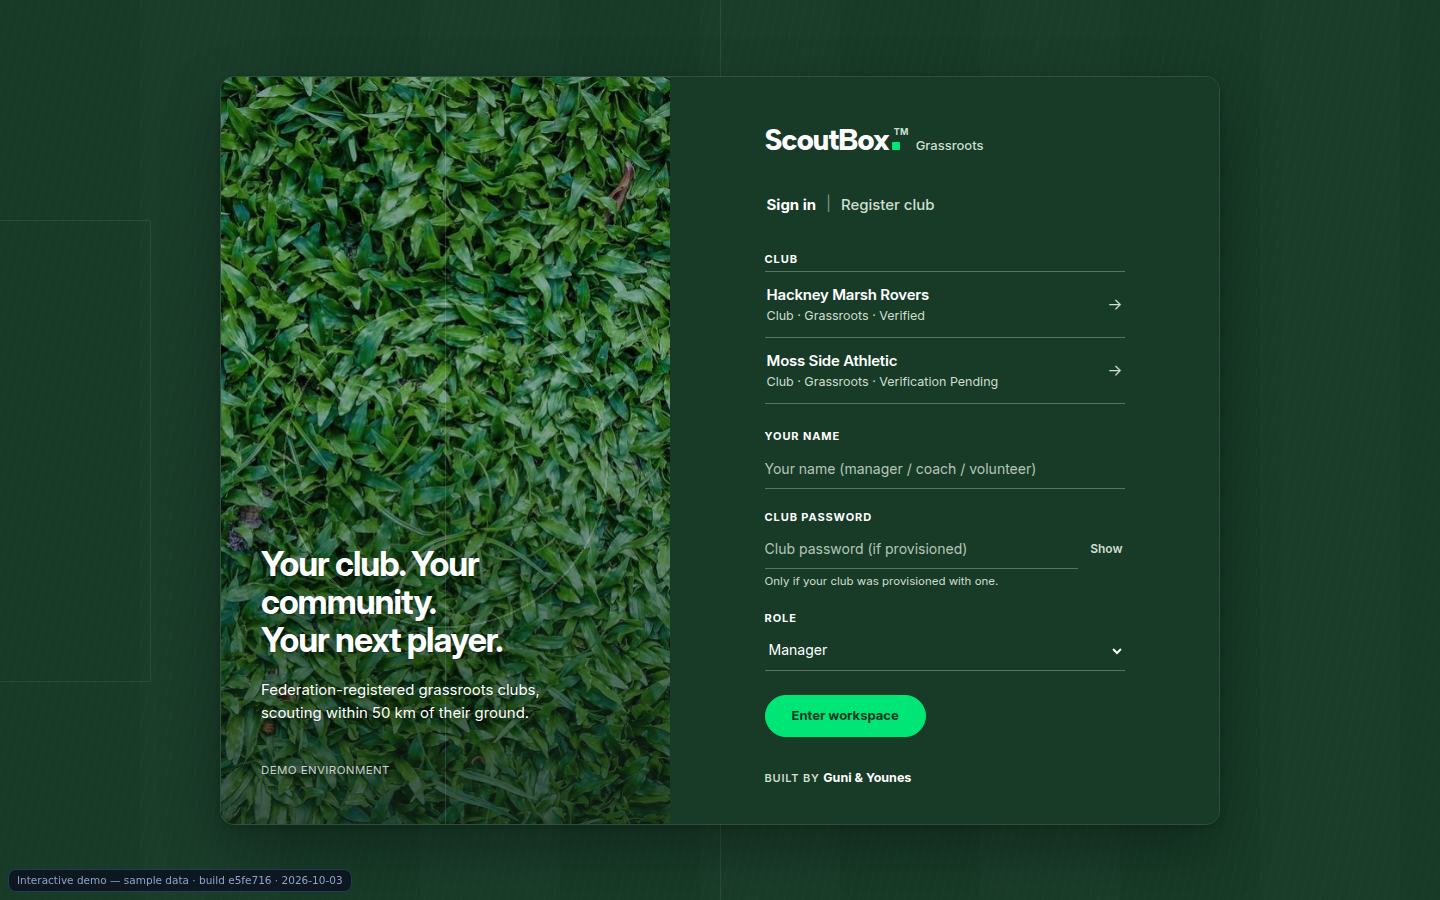
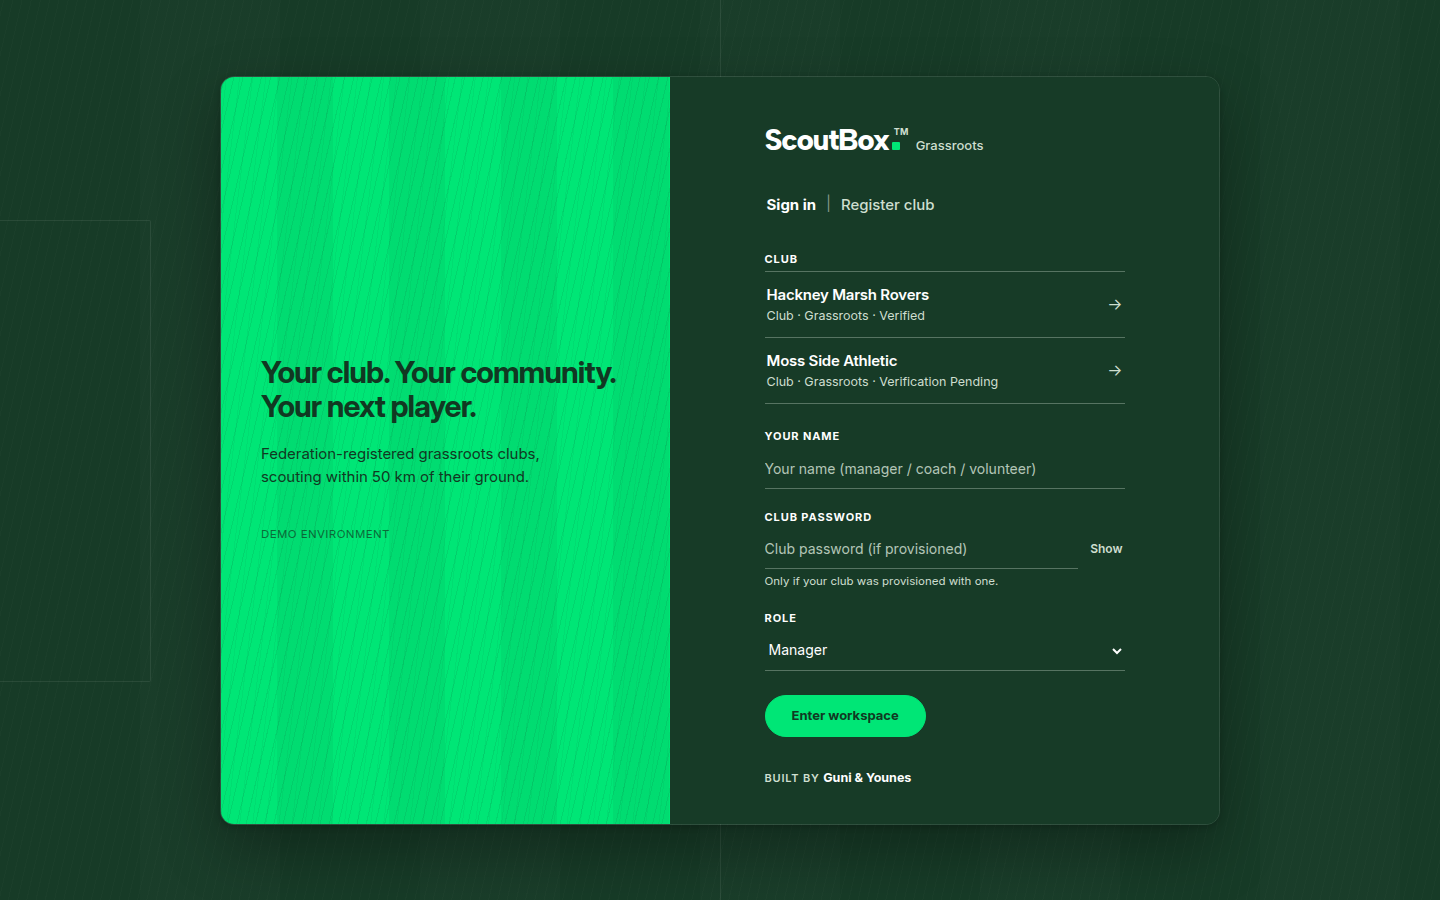
M24F.2 R5: the Grassroots entry panel restored to its M24E green at the Founder's direction
The sign-in / sign-up left panel is the soft-green M24E introduction again,
rule for rule as at e5fe716 (the blade-and-band texture over --auth-promo).
The photograph and the centre-circle motif that R3 introduced are removed
in full: no stylesheet rule, no asset on disk, no reference in any
application. The restrained copy stays (headline, one sentence, a quiet
"Demo environment" line in the demo build). m24fVisualAudit,
m24fVisualLive, m24f2DensityAudit and m24f2DensityLive assert the
restored state; the Grassroots captures are retaken; the reports record
the correction.

Claude-Session: https://claude.ai/code/session_013yjAY7aDf2i5xuqFheoSu9

Changed region(s): [[0.1562, 0.0622, 0.4688, 0.9333], [0.0, 0.9644, 0.25, 0.9956]]

diff --git a/design-system/platform.css b/design-system/platform.css
@@ -747,22 +747,20 @@ video.clip { width: 100%; max-height: 300px; border-radius: 10px; background: #0
 .auth-form .login-signature { color: var(--auth-soft); margin-top: 8px; }
 .auth-form .login-signature span { color: var(--auth-ink); }
 .auth-form .wordmark { color: var(--auth-ink); }
-/* M24F.2 — the Grassroots entry introduction: the real-grass photograph with
-   one subtle centre-circle / halfway-line (declared in the Grassroots app's
-   own stylesheet, so no other bundle carries the photograph). No diagonal
-   bands, no texture. White type over the grass; restrained copy. */
-:root[data-app="grass"] .auth-promo { background-color: #244a33; justify-content: flex-end; padding: 48px 40px 44px; min-height: 100%; }
-:root[data-app="grass"] .auth-promo h2, :root[data-app="grass"] .auth-summary, :root[data-app="grass"] .auth-points, :root[data-app="grass"] .auth-note { color: #ffffff; text-shadow: 0 1px 2px rgba(0, 0, 0, 0.35), 0 8px 24px rgba(0, 0, 0, 0.25); }
-:root[data-app="grass"] .auth-promo h2 { font-size: 34px; letter-spacing: -1px; }
+/* Grassroots: the bright introduction carries the turf — blades of grass and
+   broad mowing bands in the deep green, the same geometry as the Grassroots
+   workspace texture, no lines. (Restored to the M24E state at the Founder's
+   direction: no photograph, no centre circle.) */
+:root[data-app="grass"] .auth-promo {
+  background-color: var(--auth-promo);
+  background-image:
+    repeating-linear-gradient(103deg, transparent 0 3px, rgba(17, 56, 34, 0.09) 3px 4px, transparent 4px 9px),
+    repeating-linear-gradient(97deg, transparent 0 5px, rgba(17, 56, 34, 0.05) 5px 6px, transparent 6px 13px),
+    repeating-linear-gradient(90deg, transparent 0 56px, rgba(17, 56, 34, 0.06) 56px 112px);
+}
 :root[data-app="grass"] .auth-points:empty { display: none; }
 /* The environment indicator: a quiet line, not a notice. */
-:root[data-app="grass"] .auth-promo .auth-env { font-size: 11.5px; letter-spacing: 0.4px; text-transform: uppercase; color: rgba(255, 255, 255, 0.78); text-shadow: 0 1px 2px rgba(0, 0, 0, 0.35); margin-top: 18px; }
-@media (max-width: 720px) {
-  :root[data-app="grass"] .auth-promo { min-height: 0; height: 200px; padding: 20px 22px 18px; justify-content: flex-end; gap: 6px; }
-  :root[data-app="grass"] .auth-promo h2 { font-size: 22px; }
-  :root[data-app="grass"] .auth-summary { font-size: 13px; }
-  :root[data-app="grass"] .auth-promo .auth-env { margin-top: 6px; }
-}
+:root[data-app="grass"] .auth-promo .auth-env { font-size: 11.5px; letter-spacing: 0.4px; text-transform: uppercase; color: var(--auth-promo-ink); opacity: 0.7; margin-top: 18px; }
 /* M24F — the Grassroots club rows are a list whatever theme the person saved:
    the shared dark-theme control rules must not box them. Colour and type
    follow the M24E scheme untouched. */

diff --git a/scoutbox-grassroots/src/styles.css b/scoutbox-grassroots/src/styles.css
@@ -5,22 +5,6 @@
    app-specific rules (if any) below the import. */
 @import '../../design-system/platform.css';
 
-/* M24F.2 — the real-grass photograph is the LEFT panel of the Grassroots
-   sign-in / sign-up screen and nothing else in ScoutBox (this file is the
-   one only the Grassroots bundle carries). Over the grass, one large,
-   low-contrast centre circle and halfway line — felt, not screamed. */
-:root[data-app="grass"] .auth-promo {
-  background-image:
-    radial-gradient(circle at 50% 52%, transparent 0 calc(36% - 1px), rgba(255, 255, 255, 0.16) calc(36% - 1px) calc(36% + 1px), transparent calc(36% + 1px)),
-    linear-gradient(rgba(255, 255, 255, 0.13), rgba(255, 255, 255, 0.13)),
-    linear-gradient(180deg, rgba(20, 38, 28, 0.08) 0%, rgba(20, 38, 28, 0.02) 40%, rgba(16, 32, 23, 0.62) 100%),
-    url('../../design-system/assets/grassroots-auth-grass.jpg');
-  background-size: 100% 100%, 1px 100%, cover, cover;
-  background-position: center, center top, center, center 60%;
-  background-repeat: no-repeat;
-}
-
-
 /* M24F.2 — the Home: welcome, one primary action, counts, progress, activity, quick actions. */
 .home-welcome { font-size: 15px; color: var(--sb-ink); margin: -10px 0 18px; }
 .home-welcome .dim { margin-left: 6px; }

diff --git a/M24F2_TEST_REPORT.md b/M24F2_TEST_REPORT.md
@@ -15,7 +15,7 @@ export and the five demo bundles). No server file was touched.
 
 ## New gates
 
-### `e2e/m24f2DensityAudit.test.mjs` — 38 static checks, 0 failed
+### `e2e/m24f2DensityAudit.test.mjs` — 37 static checks, 0 failed
 
 Player › Clubs and › Account are four categories each (≤ 5) with the agreed
 names; the section is derived from `?section=` and every change is a
@@ -23,10 +23,10 @@ history entry; Suitability preferences render under Account › Preferences
 and not under Clubs; Development holds the feedback behind "View details";
 the Account root rows carry no sub-note and the category pages a back
 control. Grassroots: no diagonal gradient on the entry introduction in
-`platform.css`; the centre-circle motif over the photograph is declared in
-the Grassroots stylesheet only; no other stylesheet references the
-photograph; it never reaches an authenticated surface; the entry has no
-bullet points and no demo notice; pitch markings are dark-only; the navy
+`platform.css`; no stylesheet carries a photograph or a centre-circle motif and the
+asset is not on disk; the entry has no bullet points and no demo notice;
+pitch markings are dark-only; the navy
+
 sidebar keeps a readable Sign out. Agent: the active-navigation tokens are
 gold in both themes, no green, with the inset bar. The M24F.1 profile keeps
 its four sections and its header / current action. Sign out in all six
@@ -45,7 +45,7 @@ action and no percentage; it replaces the bare feed.
 |---|---|
 | Player 390×844, 640×360, 1024×700, 1440×900 | the Wordmark's mark column starts 2–6 px after the word, the TM raised and small, announced "trademark"; Clubs: four categories in a tablist, one selected, ≥ 40 px targets, Current default; Clubs root ≤ 2700 px of scroll (M24F.1: 4450); Requests / Development / History reachable with `?section=`; no horizontal overflow on any category; browser back → Development, forward → History; Enter on the focused Current tab opens it and keeps focus; `/you?tab=clubs&section=development` opens Development and a refresh keeps it; Account: the root list of four, no sub-note under a category row, Switch account and Sign out beneath, root ≤ 1100 px (M24F.1: 1280); each category opens with `?section=`, no overflow, back control returns to the root; `/you?tab=account&section=privacy` opens Privacy with the safeguarding rules in reach; browser back returns to the root |
 | Player demo | Development shows a "View details" per club; opening it reveals the feedback texts with Log progress as the one primary inside |
-| Grassroots entry, four viewports | the photograph on the introduction, no diagonal, the centre-circle gradient, the headline and one sentence (no points, no notice), decorative CSS only (no `img`), the panel named by its headline, the form without an image, no overflow, the ™ geometry |
+| Grassroots entry, four viewports | the M24E green introduction (restored at the Founder's direction: no photograph, no centre-circle motif), the headline and one sentence (no points, no notice), no `img`, the panel named by its headline, the form without an image, no overflow, the ™ geometry |
 | Grassroots light 390 / 1024 / 1440 | canvas `rgb(247,249,252)` with no background image and navy ink; sidebar `rgb(6,56,86)`, active destination white on the green wash with an inset bar, Sign out `rgb(255,180,168)`, the sidebar ™; Home: exactly one primary action, the six parts in order, Club progress ≥ 4 facts with no percentage, ≤ 8 activity rows, 4 quick actions, no overflow, a progress row navigates |
 | Grassroots dark 1440 | the frozen M24E tokens unchanged, the computed workspace / sidebar / top bar / body / active colours identical, the grain present and no photograph |
 | Agent dark and light 1440 | the active destination's text is gold (`rgb(208,181,123)` / `rgb(122,90,28)`), the inset bar gold (`rgb(199,169,107)` / `rgb(166,124,46)`), no green anywhere on it, the icon gold, on Home, Clients, Transactions and Inbox; the sidebar ™ |
@@ -64,8 +64,8 @@ action and no percentage; it replaces the bare feed.
 
 | Suite | Change |
 |---|---|
-| `m24fVisualAudit` | 50 checks: the Grassroots LIGHT tokens (cool canvas, navy sidebar, white surfaces, green, ink), the base turf tokens for dark, grain and markings dark-only, no diagonal bands, the centre-circle rule in the Grassroots stylesheet, the photograph on disk with its licence and referenced by that stylesheet alone, scoped to `.auth-promo` |
-| `m24fVisualLive` | 182 checks: the entry carries the photograph (never the form) and no bands; the page and form keep the shared scheme; the light workspace is the cool canvas with the navy sidebar, no grain, no markings, navy ink |
+| `m24fVisualAudit` | 48 checks: the Grassroots LIGHT tokens (cool canvas, navy sidebar, white surfaces, green, ink), the base turf tokens for dark, grain and markings dark-only, the M24E green entry panel restored, no photograph or centre-circle rule anywhere, no asset on disk |
+| `m24fVisualLive` | 182 checks: the entry is the M24E green panel with its bands and no photograph; the page and form keep the shared scheme; the light workspace is the cool canvas with the navy sidebar, no grain, no markings, navy ink |
 | `m24dAuthLive` | 112 checks: Grassroots exempt from "desktop shows the points" (it has none) |
 | `m23AgentLive`, `m23AgentIntegrationLive` | the licence is one fact (the caveat only when unverified); each disclosure row's Turn on / Turn off control is the statement |
 | `m12DemoSpotcheck`, `m12Live`, `m13DemoSpotcheck`, `m13Live`, `m14DemoSpotcheck`, `m15Live`, `uiSpotcheck` | re-pointed at Clubs › Current / Development / History and Account › Preferences / Privacy; the You link matched by prefix |

diff --git a/M24F2_DEFECT_REGISTER.md b/M24F2_DEFECT_REGISTER.md
@@ -9,7 +9,8 @@ end of the pass.
 | 2 | medium | Agent light sidebar | A later `platform.css` rule for the light Agent active destination still painted the inset bar in `var(--sb-green)`, so the Home destination showed a green bar beside gold text. | **Fixed** — the rule reads `--sb-nav-active-icon`; the live suite reads the bar colour on Home in both themes. |
 | 3 | low | Grassroots light sidebar | Sign out inherited the light theme's red ink, 2.6 : 1 on the navy column. | **Fixed** — the sidebar declares `--sb-urgent-ink: #FFB4A8` (7.2 : 1). |
 | 4 | low | Player lint | The `useLoad` helper copied into `ClubsSections.tsx` carried the baseline's synchronous `setErr(null)` inside its effect (one new lint error over the 36 baseline). | **Fixed** — the error clears with the result; lint is back to the 36 / 15 baseline. |
-| 5 | low | Grassroots entry | The M24E suite required the desktop introduction to show its bullet points; Grassroots now has none by design. | **Fixed** — `m24dAuthLive` exempts Grassroots; the M24F visual gates and the live suite assert the new state (photograph, no bands, no points). |
+| 5 | low | Grassroots entry | The M24E suite required the desktop introduction to show its bullet points; Grassroots now has none by design. | **Fixed** — `m24dAuthLive` exempts Grassroots; the M24F visual gates and the live suite assert the current state (the M24E green panel, no points). |
+| 7 | high (Founder) | Grassroots entry | M24F.2 R3 replaced the green introduction panel with a grass photograph and a centre-circle motif; the Founder did not want the image changed. | **Fixed** — the panel is the M24E green again, exactly as at `e5fe716`; photograph and motif removed everywhere (asset deleted); gates and live suites re-pointed. |
 | 6 | low | Pro, Grassroots | One error string opened with "Choose whether…". | **Fixed** — rewritten as the condition it states. |
 
 Open critical: 0. Open high: 0. Open medium: 0. Open low: 0.

diff --git a/M24F2_GRASSROOTS_LIGHT_SYSTEM.md b/M24F2_GRASSROOTS_LIGHT_SYSTEM.md
@@ -72,22 +72,17 @@ is a card; nothing is a filled tile.
 
 ## 3. The entry (sign-in) left panel
 
-- **All diagonal lines removed** from the introduction panel — not faded.
-  The M24E blade bands (`repeating-linear-gradient(103deg …)`) are gone
-  from `platform.css`.
-- **The real-grass photograph** (`design-system/assets/grassroots-auth-grass.jpg`,
-  licence beside it) is permitted here and nowhere else. The rule lives in
-  `scoutbox-grassroots/src/styles.css`, so no other bundle carries the
-  bytes and no authenticated screen can reach it.
-- **One very subtle centre-circle and halfway-line motif** over the
-  photograph: a 2 px ring at 36 % of the panel in white at 16 % and a 1 px
-  vertical line at 13 %, drawn as CSS gradients (decorative; the panel's
-  accessible name is its headline).
-- **Restrained copy**: the headline "Your club. Your community. Your next
-  player.", one sentence ("Federation-registered grassroots clubs, scouting
-  within 50 km of their ground."), no bullet points at any width. The demo
-  build shows "DEMO ENVIRONMENT" as a small uppercase line, not a notice.
-  `AuthPage` renders no list when `points` is empty.
+**Restored at the Founder's direction after the M24F.2 pass**: the left
+panel is the M24E green introduction again, exactly as at `e5fe716` — the
+soft green `--auth-promo` with its blade-and-band texture. The photograph
+and the centre-circle motif that M24F.2 R3 had introduced were removed in
+full: no asset on disk, no stylesheet rule, nowhere in any application.
+
+- **Restrained copy** (kept): the headline "Your club. Your community. Your
+  next player.", one sentence ("Federation-registered grassroots clubs,
+  scouting within 50 km of their ground."), no bullet points at any width.
+  The demo build shows "DEMO ENVIRONMENT" as a small uppercase line, not a
+  notice. `AuthPage` renders no list when `points` is empty.
 
 ## 4. Agent — active navigation in gold
 
